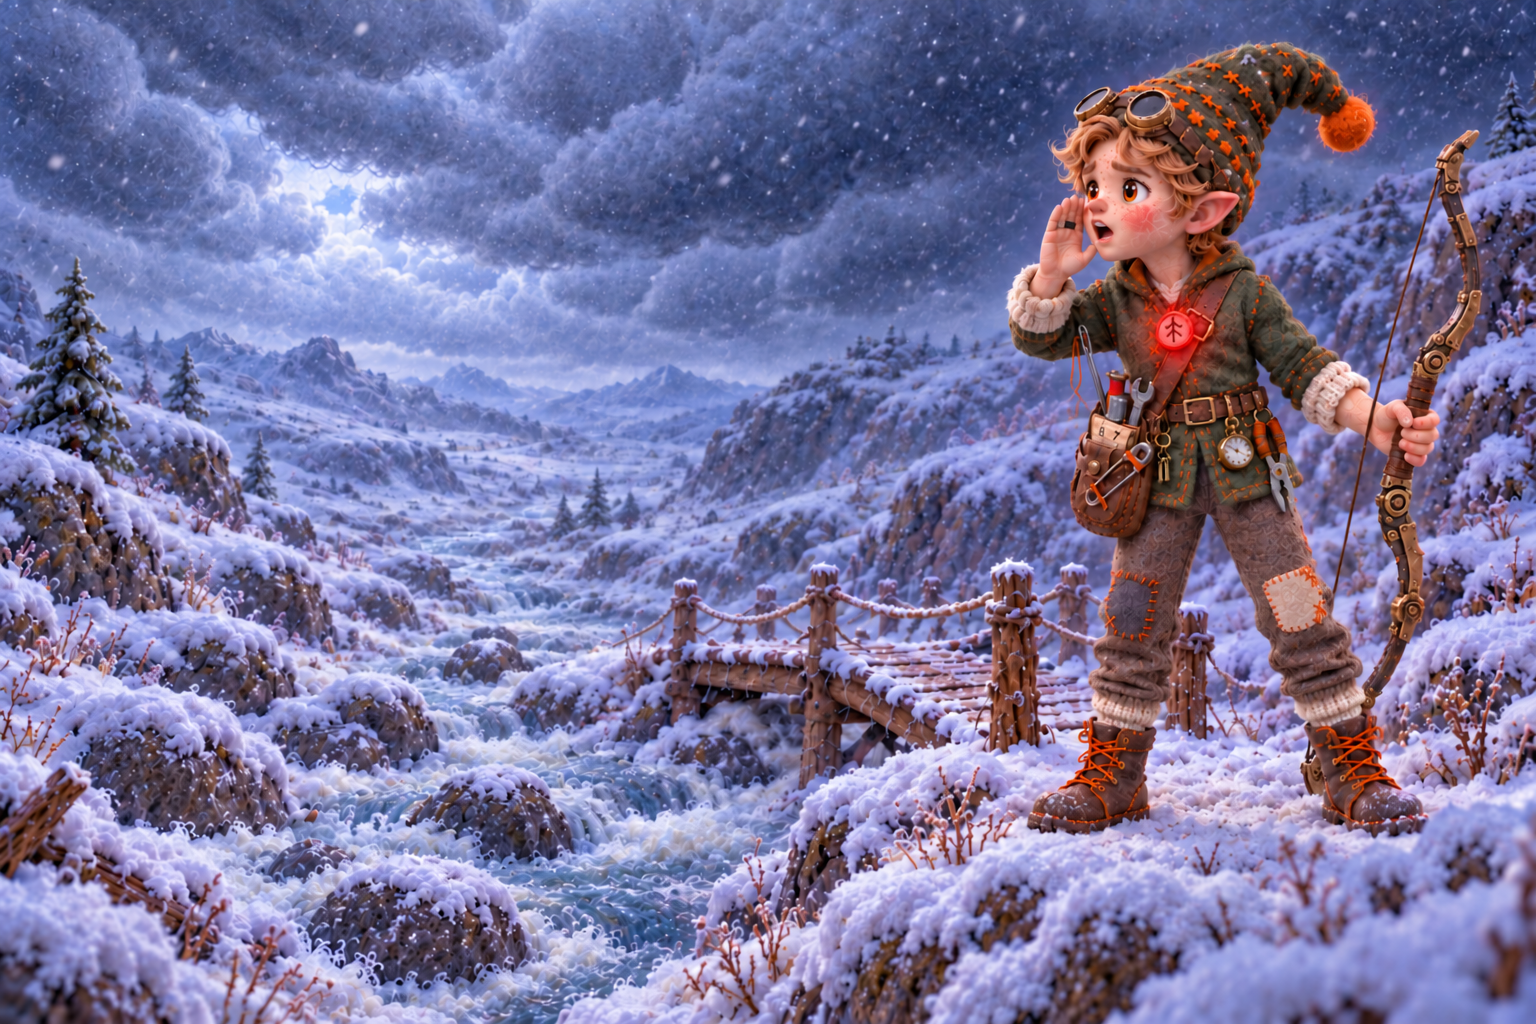
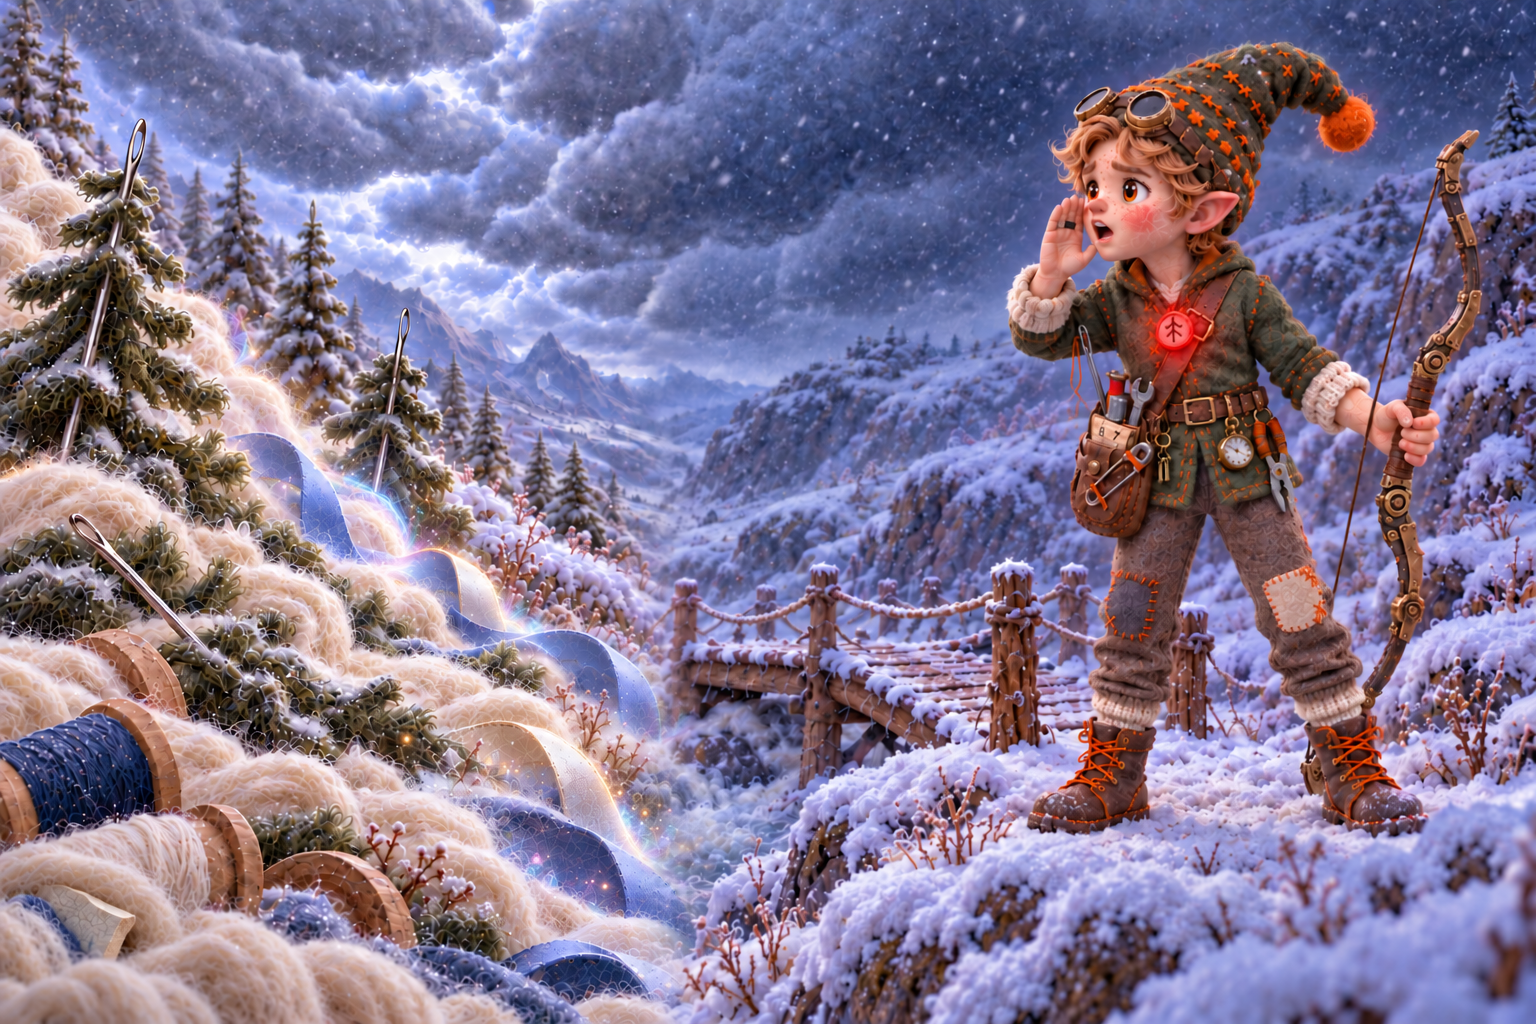
Publish approved Jack search material-formation left page

diff --git a/feltworld/flipbook/v1/doggy/index.html b/feltworld/flipbook/v1/doggy/index.html
@@ -115,7 +115,7 @@ updateZoom();
 const revision='20261005-nomie-search-v4';
 const isCover=i=>scenes[i][0].startsWith('cover-');
 const coverPath=i=>'covers/'+(i===0?'front-cover-v1.png':'back-cover-v1.png')+'?v=arthur-weathered-20261003';
-const path=(i,side)=>`${scenes[i][0]}-part-${side==='left'?1:2}-${side}.png`+(scenes[i][0]==='11-peaceful-tree-home'?'?v=tree-home-v2-20261006':'');
+const path=(i,side)=>`${scenes[i][0]}-part-${side==='left'?1:2}-${side}.png`+(scenes[i][0]==='08-jack-search'?'?v=jack-search-v5-20261007':scenes[i][0]==='11-peaceful-tree-home'?'?v=tree-home-v2-20261006':'');
 const img=(i,side)=>{const e=new Image();const key=isCover(i)?coverPath(i):path(i,side);e.src=ready.get(key)?.loaded?ready.get(key).image.src:key;e.alt=isCover(i)?(i===0?'A World of Felt. Vol. I: Doggy! By Arthur Whitcombe.':'Copyright Arthur Whitcombe, 2026.'):(side==='left'?(window.FeltPictureDescriptions[scenes[i][0]]||scenes[i][1]):'');e.draggable=false;return e};
 const storageKey='felt-story-tape-draft-v2';
 let draftEdits={};
@@ -227,7 +227,7 @@ function beginBoundary(direction,target){
  }
  spread.style.opacity='0';book.classList.add('turning','boundary-turn');setProgress(0);return true;
 }
-function render(){warmArt(index);window.dispatchEvent(new CustomEvent("felt-scene",{detail:{index,id:scenes[index][0],count:scenes.length}}));book.classList.toggle('cover-mode',isCover(index));spread.style.transform='';spread.style.opacity='';if(isCover(index)){const cover=document.createElement('div');cover.className='cover '+(index===0?'front':'back');cover.append(img(index,'right'));spread.replaceChildren(cover);}else spread.replaceChildren(page(index,'left'),page(index,'right'));previous.disabled=index===0;next.disabled=index===scenes.length-1;document.querySelector('#first').disabled=index===0;document.querySelector('#last').disabled=index===scenes.length-1;document.querySelector('#position').textContent=`${index+1} / ${scenes.length}`;document.querySelector('#scene').textContent=scenes[index][1];book.setAttribute('aria-label',`Illustrated book, ${scenes[index][1]}, spread ${index+1} of ${scenes.length}`);document.querySelector('#left-download').href=path(index,'left');document.querySelector('#right-download').href=path(index,'right');document.querySelector('#master-download').href=`masters/${scenes[index][0]}-master.png`;document.querySelector('#scene-downloads').hidden=isCover(index);document.querySelector('#text-settings').disabled=isCover(index);}
+function render(){warmArt(index);window.dispatchEvent(new CustomEvent("felt-scene",{detail:{index,id:scenes[index][0],count:scenes.length}}));book.classList.toggle('cover-mode',isCover(index));spread.style.transform='';spread.style.opacity='';if(isCover(index)){const cover=document.createElement('div');cover.className='cover '+(index===0?'front':'back');cover.append(img(index,'right'));spread.replaceChildren(cover);}else spread.replaceChildren(page(index,'left'),page(index,'right'));previous.disabled=index===0;next.disabled=index===scenes.length-1;document.querySelector('#first').disabled=index===0;document.querySelector('#last').disabled=index===scenes.length-1;document.querySelector('#position').textContent=`${index+1} / ${scenes.length}`;document.querySelector('#scene').textContent=scenes[index][1];book.setAttribute('aria-label',`Illustrated book, ${scenes[index][1]}, spread ${index+1} of ${scenes.length}`);document.querySelector('#left-download').href=path(index,'left');document.querySelector('#right-download').href=path(index,'right');document.querySelector('#master-download').href=`masters/${scenes[index][0]}-master.png`+(scenes[index][0]==='08-jack-search'?'?v=jack-search-v5-20261007':'');document.querySelector('#scene-downloads').hidden=isCover(index);document.querySelector('#text-settings').disabled=isCover(index);}
 function begin(direction,target=index+direction){
  if(target<0||target>=scenes.length||!canTurn(index)||!canTurn(target))return false;
  if(isCover(index)||isCover(target))return beginBoundary(direction,target);
